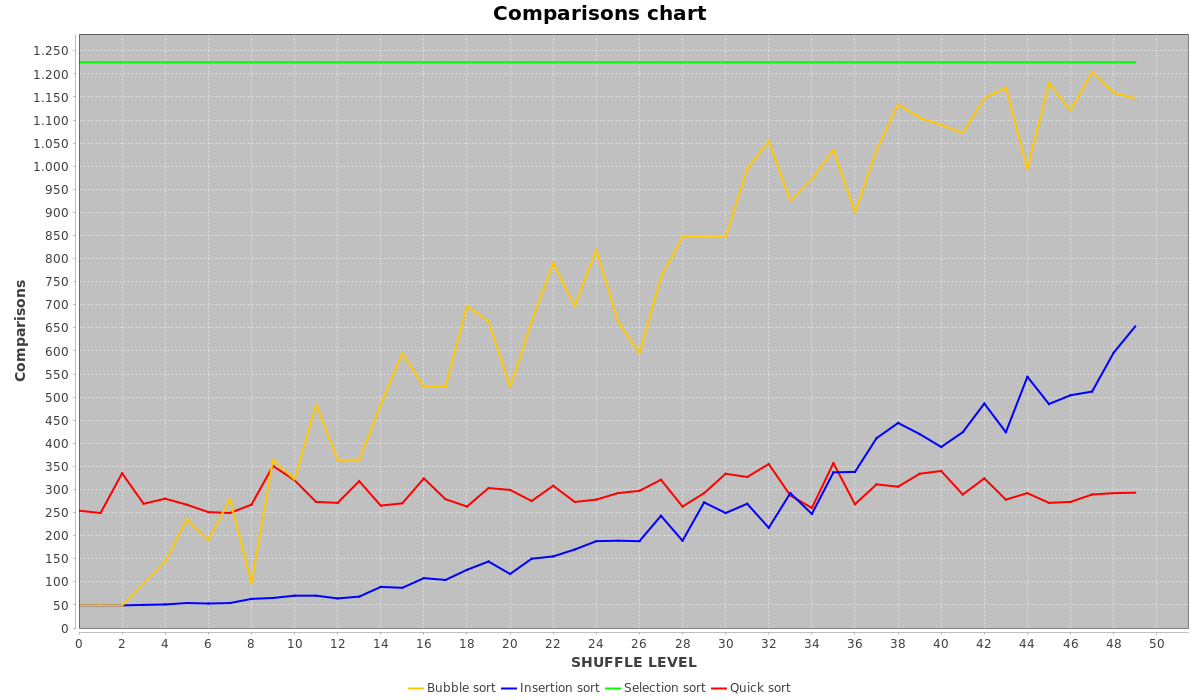
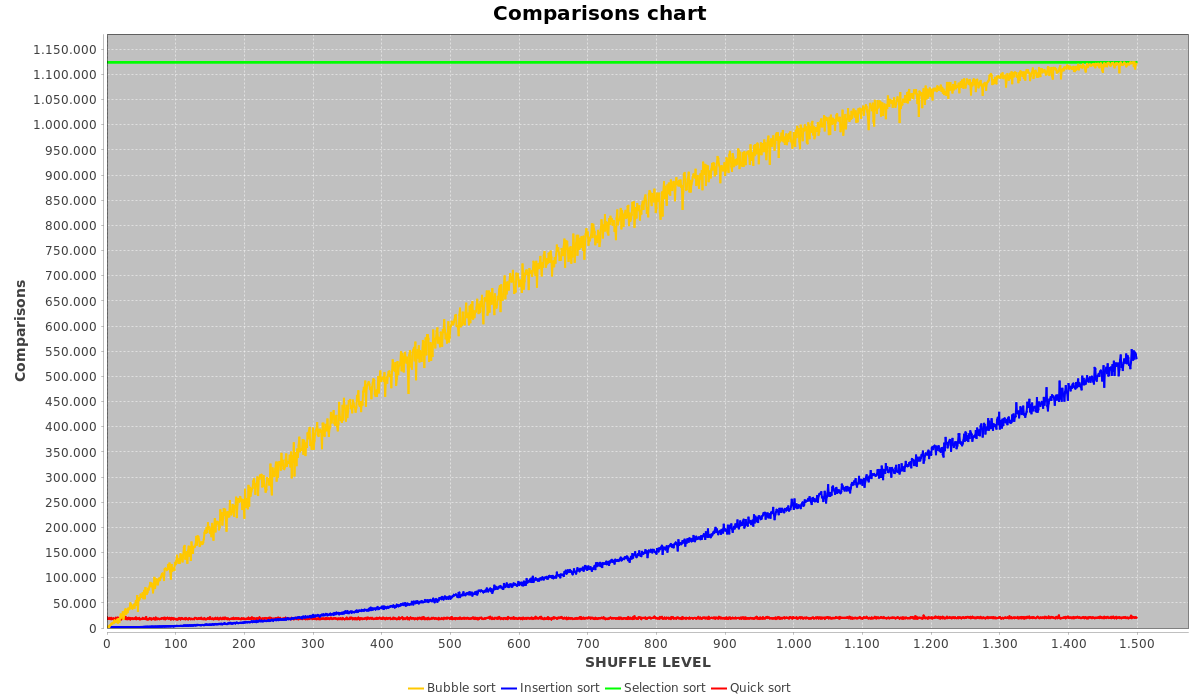
Add 2 new classes to create charts from the algorithm results.

diff --git a/data_graphs/IntArraySorterCharts.java b/data_graphs/IntArraySorterCharts.java
@@ -1,6 +1,6 @@
 
 public class IntArraySorterCharts {
-    private int[] array = ArrayInit.initArray(50);
+    private int[] array = ArrayInit.initArray(1500);
     private ChartCreator chart;
     private IntArraySorter sorter;
     private double[][] bubbleSortData = new double[2][array.length];

diff --git a/Test/quick_sort_test.java b/Test/quick_sort_test.java
@@ -27,7 +27,7 @@ class quick_sort_test {
     }
 
     @Test
-    void muy_desordenado() {
+    void array_muy_desordenado() {
         IntArraySorter sorter = new IntArraySorter(ArrayInit.initArray(50));
         sorter.fisherYatesShuffle(50);
         sorter.quickSort();
